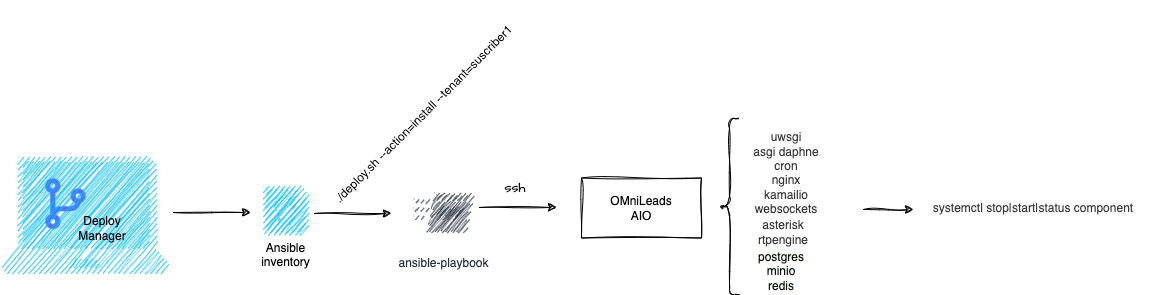
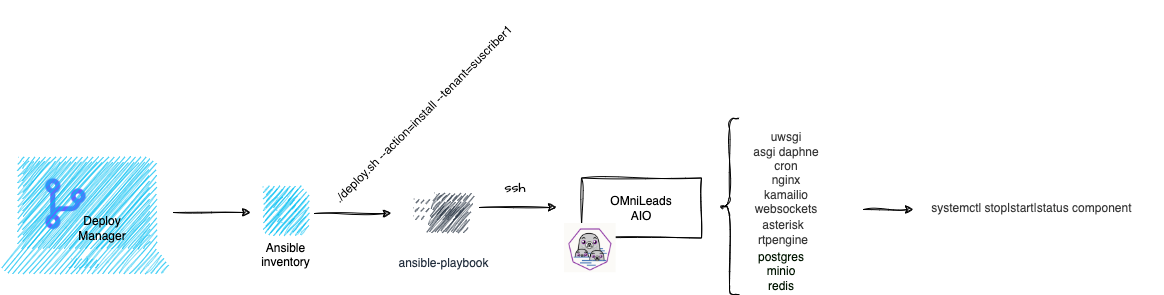
loki external & mt management

Changed region(s): [[0.8041, 0.6712, 0.9897, 0.7322], [0.4948, 0.7627, 0.5258, 0.9153]]

diff --git a/ansible/README.md b/ansible/README.md
@@ -55,7 +55,7 @@ It is possible to group these containers on a single Linux instance or cluster t
 
 # Bash + Ansible 📋 <a name="bash-ansible"></a>
 
-An instance of OMniLeads is launched on a Linux server (using Systemd and Podman or docker-compose) by running a bash script (deploy.sh) along with its input parameters and a set of Ansible files (Playbooks + Templates) that are invoked by the script.
+An instance of OMniLeads is launched on a Linux server (using Systemd & Podman or docker-compose) by running a bash script (deploy.sh) along with its input parameters and a set of Ansible files (Playbooks + Templates) that are invoked by the script.
 
 ## Bash Script deploy.sh 📄 <a name="bash-script-deploy"></a>
 
@@ -86,10 +86,12 @@ The inventory file is where the type of OMniLeads to generate (all in one, all i
 
 There are three types of inventory files for Ansible:
 
-* **inventory_aio.yml**: It should be invoked when deploying OMniLeads all in one. That is, when deploying all App components on a single Linux instance.
+* **inventory_aio.yml**: It should be invoked when deploying OMniLeads all in one. That is, when deploying all App components on a single Linux instance with Systemd & Podman or docker-compose.
 
 ![Diagrama deploy tool](./png/deploy-tool-tenant-aio.png)
 
+
+![Diagrama deploy tool](./png/deploy-tool-tenant-aio-docker.png)
 
 * **inventory_ait.yml**: It should be invoked when deploying OMniLeads all in three, that is, when deploying all App components on a cluster of three Linux instances (data, voice, & web).
 
@@ -885,14 +887,7 @@ Below are the Firewall rules to be applied on All In One instance:
 
 * 20000/30000 UDP VoIP RTP Asterisk: this port range can be opened to the entire Internet.
 
-* 9100/tcp Prometheus node exporter : This is where the connections coming from the monitoring center, more precisely from Prometheus, are processed. This port can be opened by restricting by origin in the IP of the monitoring center.
-
-* 9187/tcp Prometheus postgres exporter: This is where the connections coming from the monitoring center, more precisely from Prometheus, are processed. This port can be opened by restricting by origin in the IP of the monitoring center.
-
-* 9127/tcp Prometheus redis exporter: This is where the connections coming from the monitoring center, more precisely from Prometheus, are processed. This port can be opened by restricting by origin in the IP of the monitoring center.
-
-* 3100/TCP Loki: this is where the connections coming from the monitoring center are processed, more precisely from Grafana, are processed. This port can be opened by restricting by origin on the IP of the monitoring center.
-
+* 9090/tcp Prometheus metrics: This is where the connections coming from the monitoring center. This port can be opened by restricting by origin in the IP of the monitoring center.
 
 # License & Copyright
 
